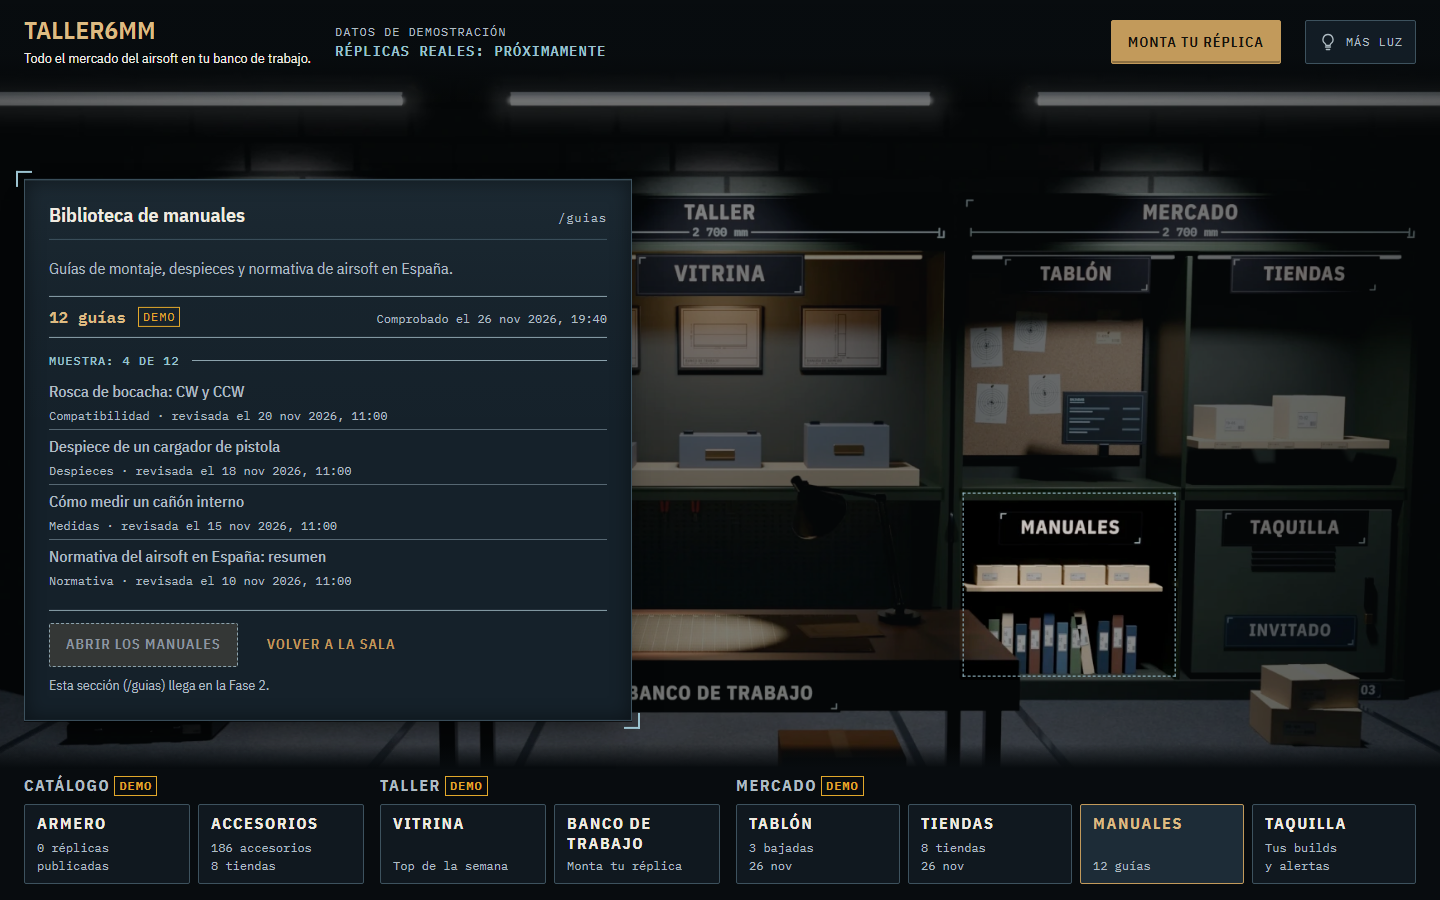
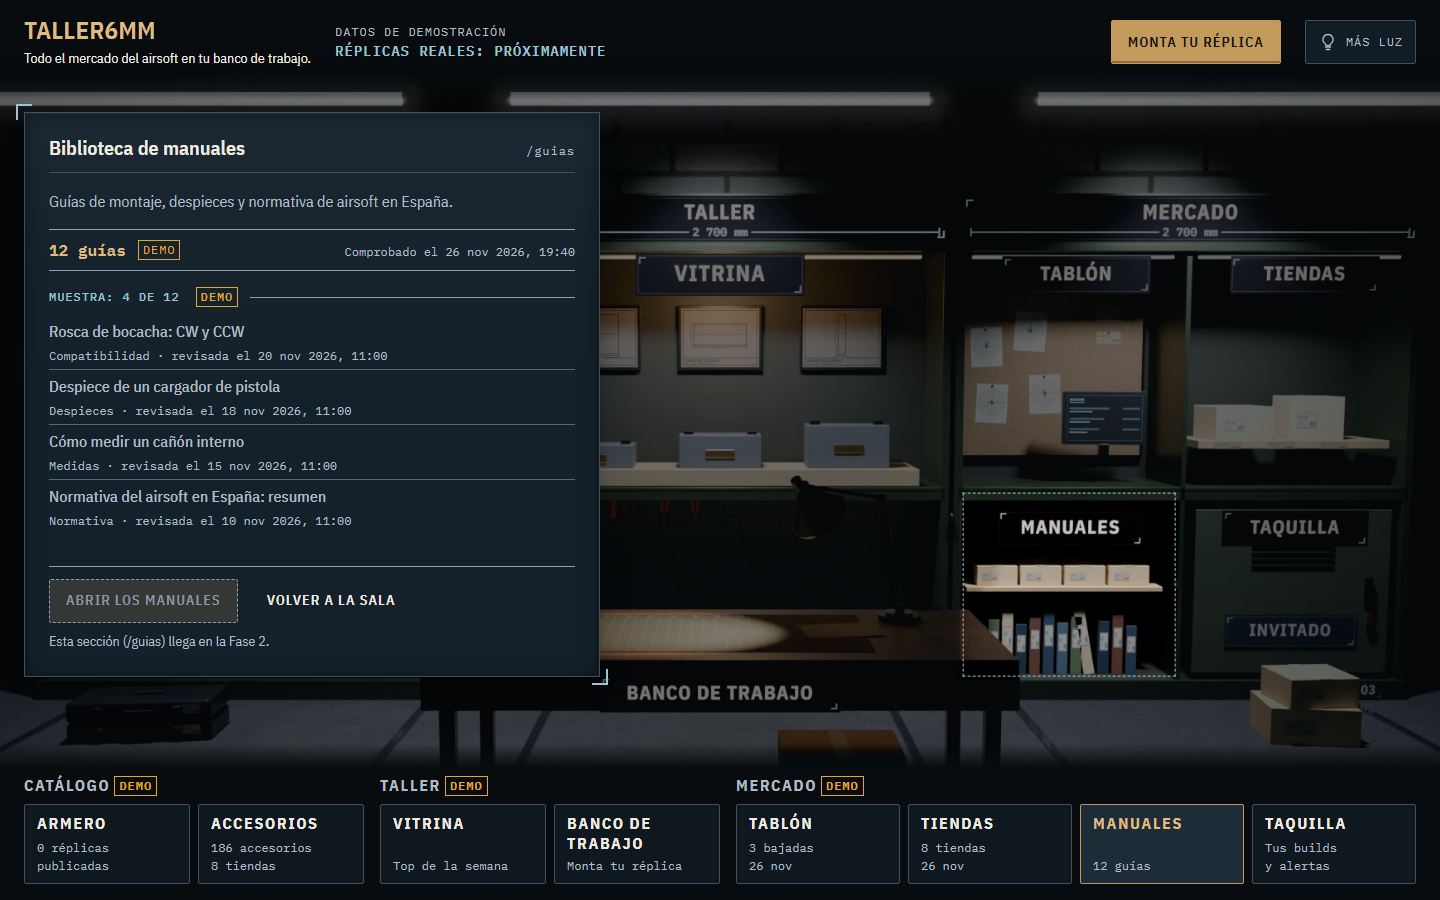
feat(armeria): S2 eight module sheets with demo content, accessible and keyboard-first
Claude-Session: https://claude.ai/code/session_013rqQGG25HwpD8NFVsP1mPw

Changed region(s): [[0.0, 0.1244, 0.4375, 0.8089]]

diff --git a/apps/web/src/components/armeria/Hoja.tsx b/apps/web/src/components/armeria/Hoja.tsx
@@ -66,12 +66,13 @@ function Fecha({ iso, prefijo = 'Comprobado' }: { iso: string | null; prefijo?: 
   );
 }
 
-function Seccion({ titulo, children }: { titulo: string; children: ReactNode }) {
+function Seccion({ titulo, demo = false, children }: { titulo: string; demo?: boolean; children: ReactNode }) {
   const id = useId();
   return (
     <section className="armeria__hoja-seccion" aria-labelledby={id}>
       <h3 id={id} className="armeria__hoja-subtitulo">
         {titulo}
+        {demo ? <Demo plural /> : null}
       </h3>
       {children}
     </section>
@@ -103,7 +104,7 @@ function CuerpoArmero() {
           ))}
         </ol>
       </Seccion>
-      <Seccion titulo="Familias previstas, sin ficha todavía">
+      <Seccion demo titulo="Familias previstas, sin ficha">
         <ul className="armeria__chips">
           {FAMILIAS_PREVISTAS.map((f) => (
             <li key={f.id}>
@@ -121,7 +122,7 @@ function CuerpoArmero() {
 
 function CuerpoAccesorios() {
   return (
-    <Seccion titulo={`Muestra: ${ACCESORIOS_MUESTRA.length} de ${ACCESORIOS_TOTAL}`}>
+    <Seccion demo titulo={`Muestra: ${ACCESORIOS_MUESTRA.length} de ${ACCESORIOS_TOTAL}`}>
       <ul className="armeria__fichas">
         {ACCESORIOS_MUESTRA.map((a) => (
           <li key={a.id}>
@@ -143,7 +144,7 @@ function CuerpoAccesorios() {
 
 function CuerpoComunidad() {
   return (
-    <Seccion titulo="Builds más valoradas">
+    <Seccion demo titulo="Builds más valoradas">
       <ol className="armeria__builds">
         {BUILDS_TOP.map((b, i) => (
           <li key={b.id} className="armeria__build">
@@ -180,7 +181,7 @@ function CuerpoBanco() {
   const { veredicto, motivo, fuente, confianza } = COMPATIBILIDAD_EJEMPLO;
   return (
     <>
-      <Seccion titulo="Ranuras de una réplica larga: «Continúa tu build» aparecerá aquí">
+      <Seccion titulo="Ranuras de una réplica larga">
         <ul className="armeria__lista-simple armeria__lista-simple--doble">
           {RANURAS_BANCO.map((r) => (
             <li key={r.id} className="armeria__fila">
@@ -192,7 +193,7 @@ function CuerpoBanco() {
           ))}
         </ul>
       </Seccion>
-      <Seccion titulo="Qué encaja y por qué">
+      <Seccion demo titulo="Qué encaja y por qué">
         <InsigniaCompatibilidad veredicto={veredicto} motivo={motivo} fuente={fuente} confianza={confianza} />
       </Seccion>
     </>
@@ -201,7 +202,7 @@ function CuerpoBanco() {
 
 function CuerpoMercado() {
   return (
-    <Seccion titulo="Bajadas de precio">
+    <Seccion demo titulo="Bajadas de precio">
       <ul className="armeria__bajadas">
         {BAJADAS.map((b) => (
           <li key={b.id} className="armeria__bajada">
@@ -259,7 +260,7 @@ function CuerpoTiendas() {
 
 function CuerpoGuias() {
   return (
-    <Seccion titulo={`Muestra: ${GUIAS_MUESTRA.length} de ${GUIAS_TOTAL}`}>
+    <Seccion demo titulo={`Muestra: ${GUIAS_MUESTRA.length} de ${GUIAS_TOTAL}`}>
       <ul className="armeria__lista-simple">
         {GUIAS_MUESTRA.map((g) => (
           <li key={g.id} className="armeria__fila armeria__fila--apilada">
@@ -341,8 +342,8 @@ export function Hoja({ zona, onCerrar, panelRef }: HojaProps) {
         {resumen ? (
           <p className="armeria__hoja-resumen">
             <strong className="armeria__hoja-dato">{resumen.texto}</strong>
-            <Demo />
-            <Fecha iso={resumen.comprobado} />
+            {resumen.is_demo ? <Demo /> : null}
+            {resumen.comprobado === undefined ? null : <Fecha iso={resumen.comprobado} />}
           </p>
         ) : null}
         {/* Lo único que se desplaza: cabecera, resumen y acciones se quedan siempre a la vista. */}

diff --git a/apps/web/src/components/armeria/hoja.css b/apps/web/src/components/armeria/hoja.css
@@ -6,13 +6,17 @@
 .armeria__hoja {
   position: absolute;
   z-index: 3;
-  top: 50%;
+  /* Anclada bajo la cabecera: al cambiar de módulo no salta; crece hacia abajo hasta la barra de zonas. */
+  top: calc(var(--espacio-24) + var(--espacio-4));
   right: var(--espacio-6);
-  width: min(38rem, calc(100% - 2 * var(--espacio-6)));
+  width: min(36rem, calc(100% - 2 * var(--espacio-6)));
   /* Entre la cabecera (arriba) y la barra de zonas (abajo): la hoja nunca las tapa y se desplaza por dentro. */
-  max-height: calc(100svh - var(--espacio-24) * 2 - var(--espacio-16) - var(--espacio-4));
+  max-height: calc(
+    100svh -
+    (var(--espacio-24) + var(--espacio-4)) -
+    (var(--espacio-24) + var(--espacio-8) + var(--espacio-2))
+  );
   display: flex;
-  translate: 0 -50%;
   animation: armeria-entra var(--duracion-panel) var(--curva-mecanica);
 }
 
@@ -209,8 +213,8 @@
 }
 
 .armeria__chips {
-  display: flex;
-  flex-wrap: wrap;
+  display: grid;
+  grid-template-columns: 1fr 1fr;
   gap: var(--espacio-2);
   margin: 0;
   padding: 0;
@@ -320,9 +324,9 @@
   bottom: 0;
   display: block;
   flex: none;
-  block-size: var(--espacio-8);
-  margin-block-start: calc(var(--espacio-8) * -1);
-  background: linear-gradient(to bottom, transparent, var(--carbon));
+  block-size: var(--espacio-12);
+  margin-block-start: calc(var(--espacio-12) * -1);
+  background: linear-gradient(to bottom, transparent, var(--carbon) 85%);
   opacity: 0;
   pointer-events: none;
 }
@@ -392,14 +396,14 @@
 @keyframes armeria-entra {
   from {
     opacity: 0;
-    translate: var(--espacio-4) -50%;
+    translate: var(--espacio-4) 0;
   }
 }
 
 @keyframes armeria-entra-izquierda {
   from {
     opacity: 0;
-    translate: calc(var(--espacio-4) * -1) -50%;
+    translate: calc(var(--espacio-4) * -1) 0;
   }
 }
 
@@ -411,14 +415,25 @@
     bottom: var(--espacio-4);
     left: var(--espacio-4);
     width: auto;
-    max-height: 55svh;
-    translate: none;
+    max-height: 78svh;
     animation: none;
   }
 
   .armeria__hoja[data-lado="izquierda"] {
     right: var(--espacio-4);
     left: var(--espacio-4);
+  }
+
+  .armeria__ranuras {
+    grid-template-columns: repeat(6, 1fr);
+  }
+
+  .armeria__lista-simple--doble {
+    grid-template-columns: 1fr;
+  }
+
+  .armeria__lista-simple--doble .armeria__fila:nth-last-child(2) {
+    border-block-end: var(--trazo-fino) solid color-mix(in srgb, var(--trazo-fuerte) 55%, transparent);
   }
 }
 
@@ -427,4 +442,24 @@
   .armeria__hoja[data-lado] {
     animation: none;
   }
+}
+
+/* Fechas de comprobación y nº de tiendas, un escalón por encima de los rótulos: son la promesa del producto. */
+.armeria__hoja :is(.t6-precio__fecha, .t6-ficha__tiendas) {
+  font-size: var(--texto-s);
+}
+
+/* «Volver a la sala» en neutro: la acción principal es la sección (aún deshabilitada) y no debe competir con ella. */
+.armeria__hoja-acciones .t6-boton--fantasma {
+  color: var(--hueso);
+}
+
+/* El título de la tabla repite el resumen de la hoja: queda solo para el lector de pantalla. */
+.armeria__hoja .t6-tabla caption {
+  position: absolute;
+  inline-size: 1px;
+  block-size: 1px;
+  overflow: hidden;
+  clip-path: inset(50%);
+  white-space: nowrap;
 }

diff --git a/apps/web/src/components/armeria/contenido-demo.ts b/apps/web/src/components/armeria/contenido-demo.ts
@@ -16,9 +16,15 @@ export interface MarcaDemo {
 }
 
 /** Línea de resumen de cada hoja: un dato y la fecha en que se comprobó (`null` = nunca se comprobó). */
-export interface ResumenDemo extends MarcaDemo {
+export interface ResumenDemo {
   readonly texto: string;
-  readonly comprobado: string | null;
+  /**
+   * Cuándo se comprobó; `null` = nunca se comprobó. `undefined` = el dato es un estado (sin sesión, sin build) y no
+   * caduca ni se comprueba: no lleva fecha, para no inventarla.
+   */
+  readonly comprobado?: string | null;
+  /** `true` = dato de ejemplo (lleva la marca «Demo»); `false` = hecho real de este momento (0 réplicas, sin sesión). */
+  readonly is_demo: boolean;
 }
 
 // ── Armero ───────────────────────────────────────────────────────────────────────────────────────
@@ -293,18 +299,18 @@ export const TAQUILLA_SIN_SESION = {
 
 // ── Resúmenes de cada hoja (dato fechado) ────────────────────────────────────────────────────────
 export const RESUMENES = {
-  replicas: { texto: '0 réplicas publicadas · 12 ranuras libres', comprobado: COMPROBADO_DEMO, is_demo: true },
+  replicas: { texto: '0 réplicas publicadas · 12 ranuras libres', is_demo: false },
   accesorios: {
     texto: `${ACCESORIOS_TOTAL} accesorios · ${TIENDAS_TOTAL} tiendas`,
     comprobado: COMPROBADO_DEMO,
     is_demo: true,
   },
   comunidad: { texto: `Top de la semana: ${BUILDS_TOP.length} builds`, comprobado: COMPROBADO_DEMO, is_demo: true },
-  banco: { texto: 'Sin build en curso', comprobado: COMPROBADO_DEMO, is_demo: true },
+  banco: { texto: 'Sin build en curso', is_demo: false },
   mercado: { texto: `${BAJADAS.length} bajadas de precio`, comprobado: COMPROBADO_DEMO, is_demo: true },
   tiendas: { texto: `${TIENDAS.length} tiendas seguidas`, comprobado: COMPROBADO_DEMO, is_demo: true },
   guias: { texto: `${GUIAS_TOTAL} guías`, comprobado: COMPROBADO_DEMO, is_demo: true },
-  taquilla: { texto: 'Sin sesión iniciada', comprobado: COMPROBADO_DEMO, is_demo: true },
+  taquilla: { texto: 'Sin sesión iniciada', is_demo: false },
 } as const satisfies Readonly<Record<string, ResumenDemo>>;
 
 /** Resumen de una zona por id (`undefined` si no existe). */

diff --git a/apps/web/src/components/armeria/contenido-demo.test.ts b/apps/web/src/components/armeria/contenido-demo.test.ts
@@ -14,6 +14,7 @@ import {
   porcentajeBajada,
   RANURAS_BANCO,
   RESUMENES,
+  type ResumenDemo,
   TAQUILLA_SIN_SESION,
   TIENDAS,
 } from './contenido-demo.ts';
@@ -33,18 +34,23 @@ describe('contenido de ejemplo', () => {
       ...BAJADAS,
       ...TIENDAS,
       ...GUIAS_MUESTRA,
-      ...Object.values(RESUMENES),
       TAQUILLA_SIN_SESION,
     ];
     for (const e of elementos) expect(e.is_demo).toBe(true);
   });
 
-  it('hay un resumen fechado para cada una de las ocho zonas', () => {
+  it('hay un resumen para cada una de las ocho zonas: los de ejemplo con fecha, los estados reales sin ella', () => {
     expect(Object.keys(RESUMENES).sort()).toEqual(ZONAS.map((z) => z.id).sort());
-    for (const r of Object.values(RESUMENES)) {
+    for (const r of Object.values(RESUMENES) as readonly ResumenDemo[]) {
       expect(r.texto.length).toBeGreaterThan(0);
-      expect(r.comprobado === null || esFechaIso(r.comprobado)).toBe(true);
+      if (r.is_demo)
+        expect(r.comprobado === null || (r.comprobado !== undefined && esFechaIso(r.comprobado))).toBe(true);
+      // Un estado real (0 réplicas, sin sesión, sin build) no es de ejemplo ni lleva fecha inventada.
+      else expect(r.comprobado).toBeUndefined();
     }
+    expect(RESUMENES.replicas.is_demo).toBe(false);
+    expect(RESUMENES.banco.is_demo).toBe(false);
+    expect(RESUMENES.taquilla.is_demo).toBe(false);
   });
 
   it('los precios son céntimos enteros con fecha ISO UTC (o null explícito, nunca 0)', () => {
@@ -79,7 +85,7 @@ describe('contenido de ejemplo', () => {
     const ranuras = socketsDe('replicas');
     expect(ranuras).toHaveLength(ARMERO.huecos);
     expect(ranuras.every((s) => s.replicaId === null)).toBe(true);
-    expect(RESUMENES.replicas?.texto.startsWith('0 réplicas publicadas')).toBe(true);
+    expect(RESUMENES.replicas.texto.startsWith('0 réplicas publicadas')).toBe(true);
   });
 
   it('la taquilla sin sesión no muestra cifras inventadas', () => {

diff --git a/apps/web/e2e/inicio.spec.ts b/apps/web/e2e/inicio.spec.ts
@@ -154,8 +154,15 @@ test.describe('La Armería · hojas de los ocho módulos (S2)', () => {
       // Resumen con dato, marca de ejemplo y fecha de comprobación legible por máquina.
       const cajetin = hoja.locator('.armeria__hoja-resumen');
       await expect(cajetin).toContainText(resumen);
-      await expect(cajetin).toContainText('Demo');
-      await expect(cajetin.locator('time[datetime]')).toHaveCount(1);
+      // Los estados reales (0 réplicas, sin build, sin sesión) no son de ejemplo ni llevan una fecha inventada.
+      const esEstadoReal = ['replicas', 'banco', 'taquilla'].includes(id);
+      if (esEstadoReal) {
+        await expect(cajetin).not.toContainText('Demo');
+        await expect(cajetin.locator('time')).toHaveCount(0);
+      } else {
+        await expect(cajetin).toContainText('Demo');
+        await expect(cajetin.locator('time[datetime]')).toHaveCount(1);
+      }
       // Acción a la sección futura: deshabilitada (aria-disabled, enfocable) y explicada, nunca un enlace roto.
       const accion = hoja.locator('button.t6-boton--laton');
       await expect(accion).toHaveAttribute('aria-disabled', 'true');
@@ -186,6 +193,8 @@ test.describe('La Armería · hojas de los ocho módulos (S2)', () => {
       const precios = await hoja.locator('.t6-precio').count();
       expect(precios, id).toBeGreaterThan(0);
       for (let i = 0; i < precios; i++) await expect(hoja.locator('.t6-precio').nth(i)).toContainText(/Comprobado/);
+      // En pantallas estrechas la hoja tapa la barra de zonas: se cierra antes de abrir la siguiente.
+      await page.keyboard.press('Escape');
     }
   });
 
